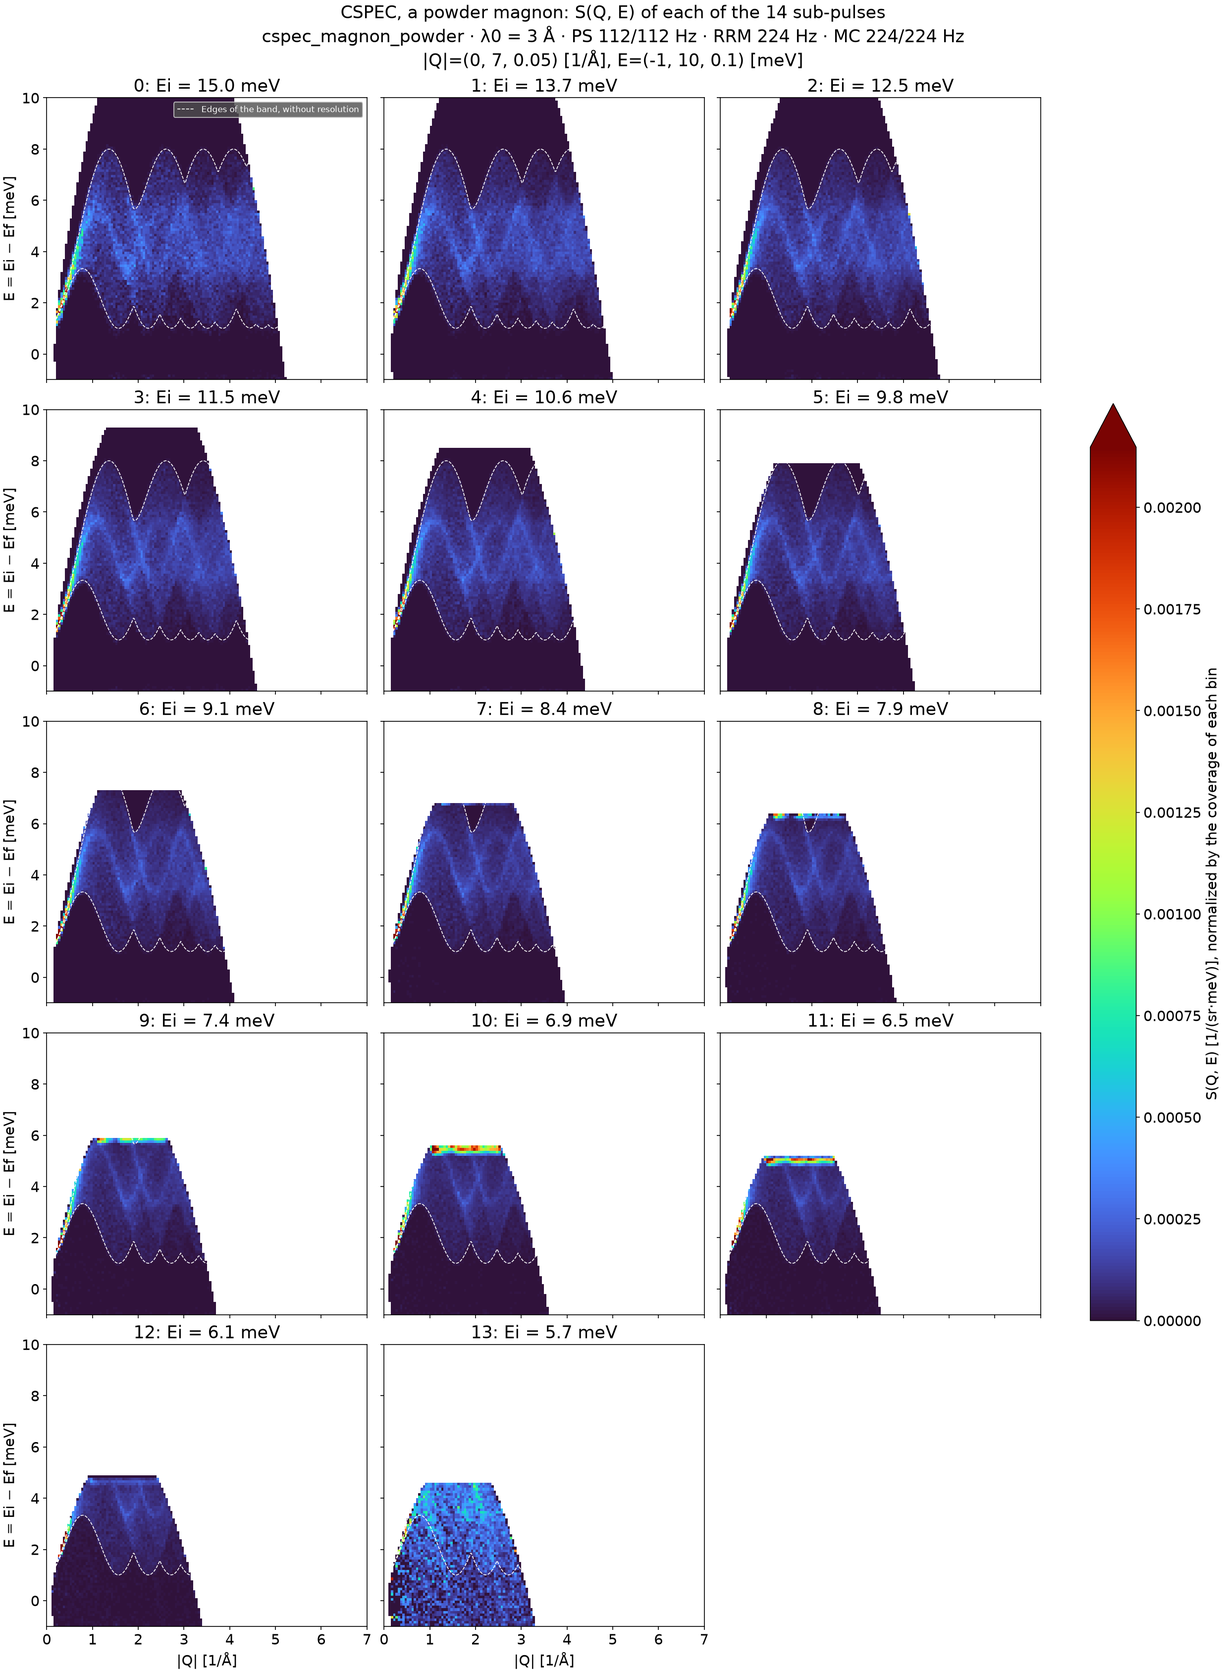
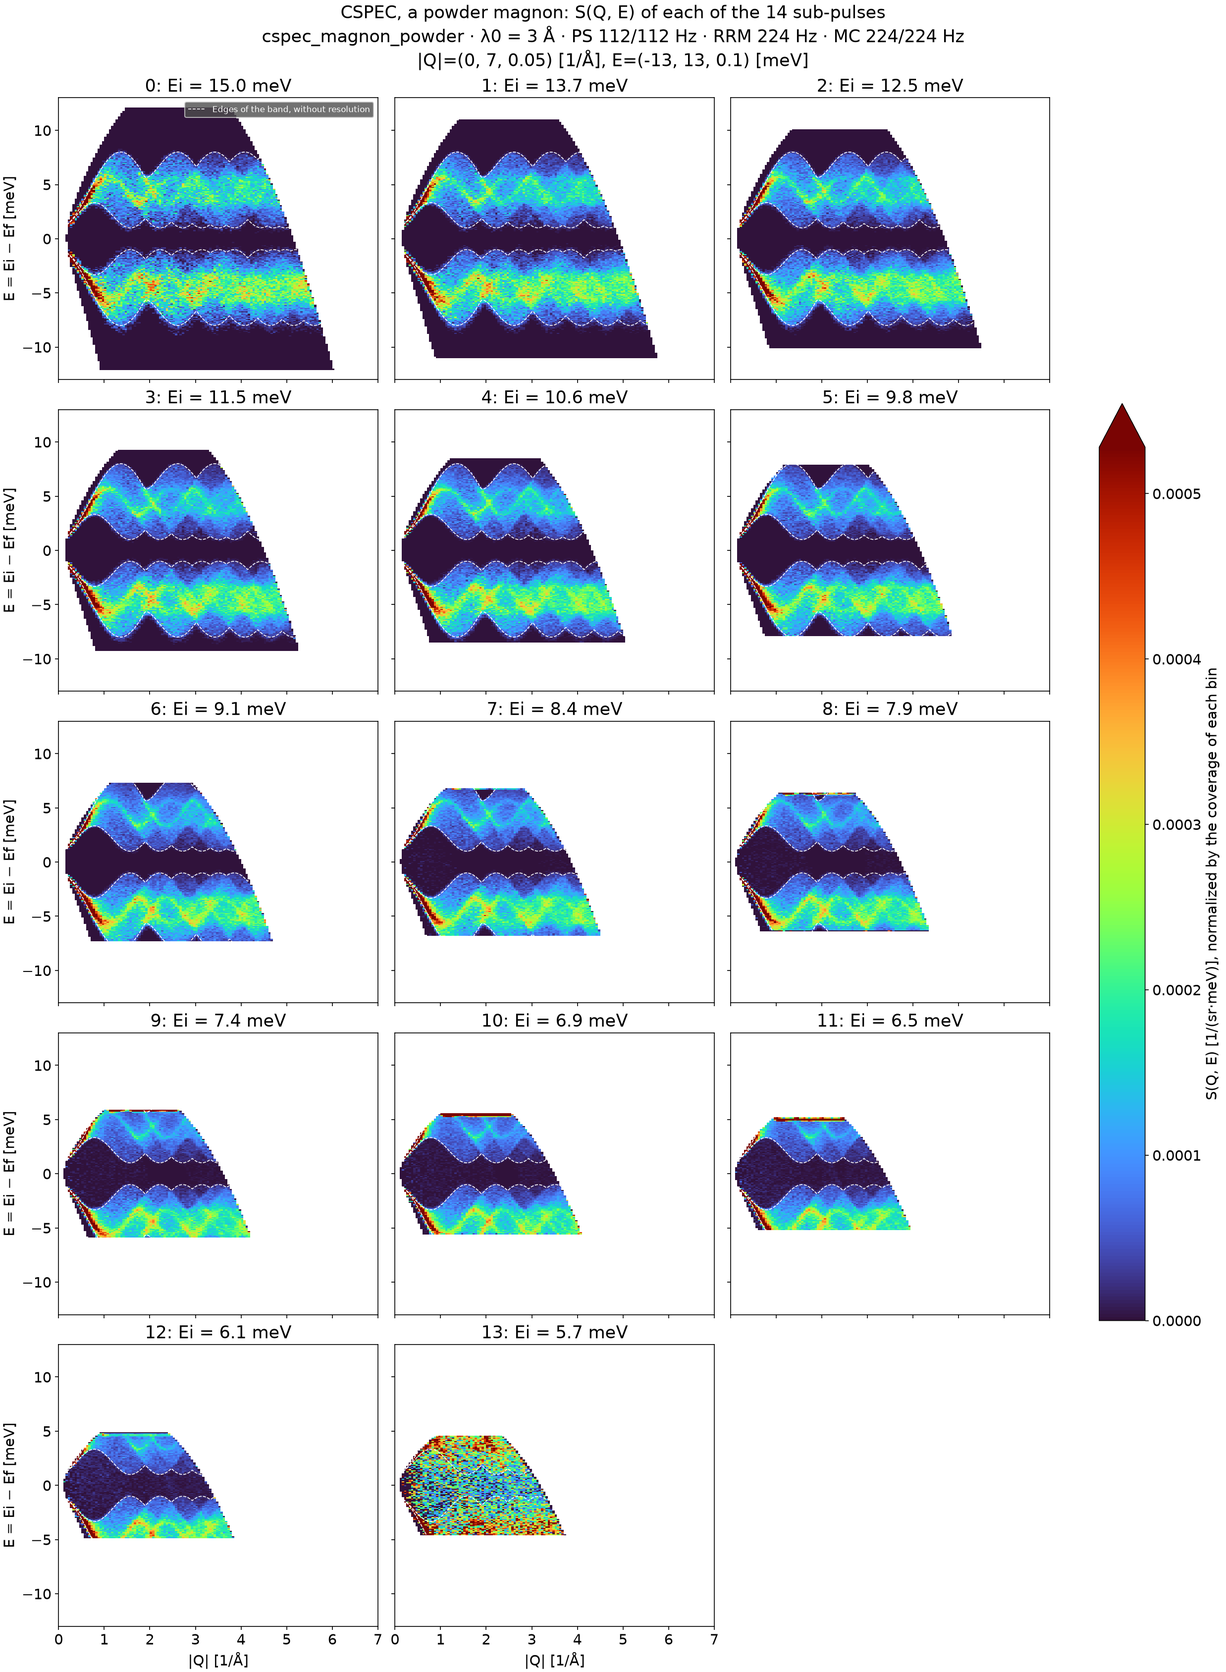
Show the powder magnon on both sides of E, with a Bose factor of 1
write_magnon_sqw writes the S(|Q|, E) table on both sides of E, S(Q, -E) = S(Q, E), each side one
magnon, instead of leaving Isotropic_Sqw to mirror a table given at positive E alone. With T=-1, no
detailed balance, the powder annihilates the magnon as often as it creates it: the same scattering
as before, now stated in the table. The second parts of T-Rex FF and CSPEC ran again from their
beams, and gave the same events.

plot_magnon_maps no longer crops the maps to the loss side: they span the whole arrival windows,
energy gain and energy loss, and the dashed edges of the band are mirrored to negative E. crop and
ENERGY_RANGE go. plot_q_e_maps and plot_magnon_maps take the percentile of the top of the color
scale; CSPEC draws to the 98th, to show its band in more of the scale. The vanadium maps and the
T-Rex figure keep the 99.9th.

The findings on both pages still describe the cropped figures, apart from their sample tables.

diff --git a/src/mcdgs/diagnostics/magnon_powder.py b/src/mcdgs/diagnostics/magnon_powder.py
@@ -5,10 +5,10 @@ The powder-magnon diagnostic of each instrument writes the S(|Q|, E) of its powd
 with :func:`.q_e_maps`, as for vanadium. Each chooses a magnon in reach of its sub-pulses. This
 module does the rest:
 
-- :func:`crop` keeps the bins of the maps within a range of E, around the band.
-- :func:`plot_magnon_maps` draws the maps of :func:`.plot_q_e_maps` with the edges of the band of
-  the model, :func:`.magnon_band`, over them: how far the intensity spreads past them is the
-  resolution of each sub-pulse.
+- :func:`plot_magnon_maps` draws the maps of :func:`.plot_q_e_maps` over the whole arrival
+  windows, energy gain and energy loss, with the edges of the band of the model,
+  :func:`.magnon_band`, over them: how far the intensity spreads past them is the resolution of
+  each sub-pulse, and whatever lies elsewhere comes from the instrument or the reduction.
 """
 
 import numpy as np
@@ -16,45 +16,31 @@ import scipp as sc
 from matplotlib.figure import Figure
 from matplotlib.lines import Line2D
 
-from mcdgs.diagnostics.elastic_resolution import plot_q_e_maps
+from mcdgs.diagnostics.elastic_resolution import MAP_PERCENTILE, plot_q_e_maps
 from mcdgs.samples.inelastic.powder import MAGNON_A, magnon_band
 
 EDGE_COLOR = "white"  # of the edges of the band of the model, over the maps
 
 
-def crop(maps: sc.DataArray, energy_range: tuple[float, float]) -> sc.DataArray:
-    """Keep the bins of E within ``energy_range``, in meV, of the maps of :func:`.q_e_maps`.
-
-    Examples
-    --------
-    >>> edges = sc.linspace("energy_transfer", -10.0, 10.0, 21, unit="meV")
-    >>> maps = sc.DataArray(
-    ...     sc.zeros(dims=["energy_transfer"], shape=[20]), coords={"energy_transfer": edges}
-    ... )
-    >>> cropped = crop(maps, (-2.0, 3.0))
-    >>> cropped.coords["energy_transfer"].values[[0, -1]].tolist()
-    [-2.0, 3.0]
-    """
-    low, high = (sc.scalar(value, unit="meV") for value in energy_range)
-    unit = maps.coords["energy_transfer"].unit
-    return maps["energy_transfer", low.to(unit=unit) : high.to(unit=unit)]
-
-
 def plot_magnon_maps(
     maps: sc.DataArray,
     title: str,
-    energy_range: tuple[float, float],
     js: float,
     gap: float,
     a: float = MAGNON_A,
+    percentile: float = MAP_PERCENTILE,
 ) -> Figure:
     """Draw the S(Q, E) of every sub-pulse, with the edges of the band of the model over it.
 
-    The maps are those of :func:`.plot_q_e_maps`, within ``energy_range``: one panel per
-    sub-pulse, from the highest Ei, on one color scale, white where the sub-pulse cannot reach.
+    The maps are those of :func:`.plot_q_e_maps`, over all their E, from the energy gain to the
+    energy loss of the arrival window of the highest Ei: one panel per sub-pulse, from the
+    highest Ei, on one color scale, white where the sub-pulse cannot reach.
+
     Over each, the lowest and the highest energy of the magnon at each |Q|, :func:`.magnon_band`,
-    are dashed lines: the band of the powder has sharp edges, and how far the intensity spreads
-    past them is the resolution of the sub-pulse.
+    are dashed lines, at positive E, where the powder creates the magnon, and mirrored at negative
+    E, where it annihilates it: the band of the powder has sharp edges, and how far the intensity
+    spreads past them is the resolution of the sub-pulse. Whatever lies outside both bands comes
+    from the instrument or the reduction.
 
     Parameters
     ----------
@@ -62,24 +48,23 @@ def plot_magnon_maps(
         The maps of :func:`.q_e_maps`.
     title:
         The title of the figure.
-    energy_range:
-        The E of the maps, in meV, as :func:`crop`.
     js, gap, a:
         The magnon of the powder, as :func:`.magnon_energies`.
+    percentile:
+        The top of the color scale, as :func:`.plot_q_e_maps`.
 
     Returns
     -------
     :
         The figure.
     """
-    maps = crop(maps, energy_range)
-    fig = plot_q_e_maps(maps, title)
+    fig = plot_q_e_maps(maps, title, percentile=percentile)
     q_edges = maps.coords["Q"].to(unit="1/Å").values
     q = np.linspace(q_edges[0], q_edges[-1], 400)
     low, high = magnon_band(q, a=a, js=js, gap=gap)
     panels = [ax for ax in fig.axes[: maps.sizes["subpulse"]] if ax.get_visible()]
     for ax in panels:
-        for edge in (low, high):
+        for edge in (low, high, -low, -high):  # on the loss side, and mirrored on the gain side
             ax.plot(q, edge, color=EDGE_COLOR, lw=0.8, ls="--")
     if panels:
         panels[0].legend(

diff --git a/src/mcdgs/samples/inelastic/powder.py b/src/mcdgs/samples/inelastic/powder.py
@@ -148,11 +148,15 @@ def write_magnon_sqw(
     At each |Q| of the table, the magnon of :func:`magnon_energies` is averaged over the
     ``directions`` of :func:`sphere_directions`: the energies they give are histogrammed and
     smoothed by a Gaussian of σ ``width``, the line of the magnon. Each row is a density in E:
-    its sum times ``e_step`` is 1, the same at every |Q|. The magnetic form factor and the
-    polarization factor are left out, so the intensity does not fall with |Q|.
+    the sum of each side times ``e_step`` is 1, one magnon, the same at every |Q|. The magnetic
+    form factor and the polarization factor are left out, so the intensity does not fall with |Q|.
 
-    The magnon is created only: E is the energy the neutron loses, from 0 to a little above the
-    top of the band, and the table holds no detailed balance (``classical`` 0 in its header).
+    E is the energy the neutron loses. The magnon is created at positive E and annihilated at
+    negative E, as often: the table is symmetric in E, from a little below the bottom of the band
+    on the gain side to a little above its top on the loss side, a Bose factor of 1, the limit of
+    a high temperature. It holds both sides itself, rather than leaving :class:`.Isotropic_Sqw` to
+    mirror one, and ``classical`` 0 in its header: with ``T=-1``, no detailed balance, the powder
+    scatters it as it is.
 
     Parameters
     ----------
@@ -178,13 +182,16 @@ def write_magnon_sqw(
     path.parent.mkdir(parents=True, exist_ok=True)
     q = np.arange(0.0, q_max + q_step / 2, q_step)
     e_max = gap + 24 * js + 6 * width
-    energy = np.arange(0.0, e_max + e_step / 2, e_step)
-    edges = np.append(energy - e_step / 2, energy[-1] + e_step / 2)
+    loss = np.arange(0.0, e_max + e_step / 2, e_step)  # E from 0 up: the magnon created
+    edges = np.append(loss - e_step / 2, loss[-1] + e_step / 2)
     unit = sphere_directions(directions)
-    table = np.empty((q.size, energy.size))
+    created = np.empty((q.size, loss.size))
     for i, length in enumerate(q):
-        table[i] = np.histogram(magnon_energies(length * unit, a, js, gap), bins=edges)[0]
-    table = gaussian_filter1d(table / (directions * e_step), width / e_step, axis=1)
+        created[i] = np.histogram(magnon_energies(length * unit, a, js, gap), bins=edges)[0]
+    created = gaussian_filter1d(created / (directions * e_step), width / e_step, axis=1)
+    # the gain side, the magnon annihilated: the loss side mirrored, a Bose factor of 1
+    energy = np.concatenate([-loss[:0:-1], loss])
+    table = np.concatenate([created[:, :0:-1], created], axis=1)
     with path.open("w") as f:
         f.write(
             "# S(|Q|, E) of the magnon of a simple-cubic ferromagnet, averaged over the "
@@ -195,7 +202,7 @@ def write_magnon_sqw(
             "# q axis values [1/Å]\n"
         )
         np.savetxt(f, q[None], fmt="%.4f")
-        f.write("# w axis values [meV], the energy the neutron loses\n")
+        f.write("# w axis values [meV], the energy the neutron loses, negative when it gains\n")
         np.savetxt(f, energy[None], fmt="%.4f")
         f.write("# sqw values [1/meV], one row per q value\n")
         np.savetxt(f, table, fmt="%.4e")

diff --git a/src/mcdgs/diagnostics/elastic_resolution.py b/src/mcdgs/diagnostics/elastic_resolution.py
@@ -433,13 +433,17 @@ def q_e_maps(
     return maps
 
 
-def plot_q_e_maps(maps: sc.DataArray, title: str, columns: int = MAP_COLUMNS) -> Figure:
+def plot_q_e_maps(
+    maps: sc.DataArray,
+    title: str,
+    columns: int = MAP_COLUMNS,
+    percentile: float = MAP_PERCENTILE,
+) -> Figure:
     """Draw the S(Q,E) map of every sub-pulse, |Q| across and E up, from the highest Ei.
 
     Every map spans the same range of |Q| and E, that of the bins of :func:`q_e_maps`, and they
-    share one linear color scale, turbo, from 0 to the ``MAP_PERCENTILE`` percentile of the bins
-    with neutrons, of all the maps. A bin the sub-pulse
-    reaches has the color of its value, the bottom of the scale if it is empty; a bin it cannot
+    share one linear color scale, turbo, from 0 to the ``percentile`` percentile of the bins with
+    neutrons, of all the maps. A bin the sub-pulse reaches has the color of its value, the bottom of the scale if it is empty; a bin it cannot
     reach, NaN in :func:`q_e_maps`, is white. So the colored area of each map is its coverage:
     its arrival window between the smallest and the largest 2θ of the pixels.
 
@@ -451,6 +455,9 @@ def plot_q_e_maps(maps: sc.DataArray, title: str, columns: int = MAP_COLUMNS) ->
         The title of the figure.
     columns:
         The number of maps in a row.
+    percentile:
+        The top of the color scale, as a percentile of the bins with neutrons. A lower one
+        saturates more bins, and shows the weaker ones in more of the scale.
 
     Returns
     -------
@@ -463,7 +470,7 @@ def plot_q_e_maps(maps: sc.DataArray, title: str, columns: int = MAP_COLUMNS) ->
     energies = maps.coords["incident_energy"].to(unit="meV").values
     order = np.argsort(-energies)  # the highest Ei first
     rows = -(-order.size // columns)
-    top = float(np.nanpercentile(maps.values[maps.values > 0], MAP_PERCENTILE))
+    top = float(np.nanpercentile(maps.values[maps.values > 0], percentile))
     cmap = plt.get_cmap("turbo").with_extremes(bad="white")
     with plt.rc_context({"font.size": FONT_SIZE}):
         fig, axes = plt.subplots(

diff --git a/src/mcdgs/diagnostics/trex/magnon_powder.py b/src/mcdgs/diagnostics/trex/magnon_powder.py
@@ -21,7 +21,8 @@ The reduction is that of the vanadium (:func:`.elastic_resolution_incoherent.red
 sub-pulses, the pixels past ``MIN_TWO_THETA`` from the beam, the neutrons of each sub-pulse
 normalized by the solid angle of their pixel and by its flux, and :func:`.q_e_maps`, S(Q, E)
 normalized by the coverage of each bin. :func:`.plot_magnon_maps` draws the 15 maps in one figure,
-within ``ENERGY_RANGE``, with the edges of the band of the model, :func:`.magnon_band`, over them.
+over their whole arrival windows, energy gain and energy loss, with the edges of the band of the
+model, :func:`.magnon_band`, over them.
 
 :func:`main` is :func:`simulate`, which runs McStas, then :func:`analyze`, which reduces and
 draws. Run it to do both::
@@ -50,7 +51,7 @@ from mcdgs.instruments.trex.model import DEFAULT_PARAMS, Params, TRex
 from mcdgs.mcstas import Simulation, Workspace
 from mcdgs.reduction.inelastic import normalized_events
 from mcdgs.samples import magnon_powder, write_magnon_sqw
-from mcdgs.samples.inelastic.powder import MAGNON_GAP, MAGNON_JS, MAGNON_TOP
+from mcdgs.samples.inelastic.powder import MAGNON_GAP, MAGNON_JS
 
 NAME = "trex_magnon_powder"
 SQW_NAME = "magnon_powder.sqw"  # in the builds folder of the workspace
@@ -60,8 +61,6 @@ SAMPLE_SPLIT = 4  # each neutron of the beam goes through the powder this many t
 NCOUNT = 5e9  # McStas rays of the first part, from the masked source
 ENERGY_STEP = 0.25  # meV, the bin width in E of the maps
 Q_STEP = 0.1  # 1/Å, the bin width in |Q| of the maps
-# the E of the maps: the magnon is created only, so from a little below 0 to past the band
-ENERGY_RANGE = (-2.0, MAGNON_TOP + 3.0)  # meV
 
 
 def sqw_path(workspace: Workspace | None = None) -> Path:
@@ -262,7 +261,6 @@ def analyze(out: Path | None = None, modes: tuple[Mode, ...] = MODES) -> list[Pa
             maps,
             f"T-Rex, a powder magnon: S(Q, E) of each of the {pulses.sizes['subpulse']} "
             f"sub-pulses\n{conditions}",
-            ENERGY_RANGE,
             js=MAGNON_JS,
             gap=MAGNON_GAP,
         )

diff --git a/src/mcdgs/diagnostics/cspec/magnon_powder.py b/src/mcdgs/diagnostics/cspec/magnon_powder.py
@@ -18,8 +18,10 @@ the folders of :func:`run_names`.
 The reduction is that of the vanadium (:func:`.elastic_resolution_incoherent.reduce_runs`): the
 sub-pulses at ``mc_monitor``, every pixel of the panels, the neutrons of each sub-pulse normalized
 by the solid angle of their pixel and by its flux, and :func:`.q_e_maps`, S(Q, E) normalized by
-the coverage of each bin. :func:`.plot_magnon_maps` draws the 14 maps in one figure, within
-``ENERGY_RANGE``, with the edges of the band of the model, :func:`.magnon_band`, over them.
+the coverage of each bin. :func:`.plot_magnon_maps` draws the 14 maps in one figure, over
+their whole arrival windows, energy gain and energy loss, on a color scale up to the
+``MAP_PERCENTILE`` percentile of the bins, with the edges of the band of the model,
+:func:`.magnon_band`, over them.
 
 :func:`main` is :func:`simulate`, which runs McStas, then :func:`analyze`, which reduces and
 draws. Run it to do both::
@@ -62,8 +64,9 @@ SAMPLE_SPLIT = 4  # each neutron of the beam goes through the powder this many t
 NCOUNT = 5e9  # McStas rays of the first part, from the masked source
 ENERGY_STEP = 0.1  # meV, the bin width in E of the maps
 Q_STEP = 0.05  # 1/Å, the bin width in |Q| of the maps
-# the E of the maps: the magnon is created only, so from a little below 0 to past the band
-ENERGY_RANGE = (-1.0, MAGNON_TOP + 2.0)  # meV
+# the top of the color scale, as a percentile of the bins with neutrons: lower than for vanadium,
+# so that the band shows in the upper colors, not only the hottest bins of the last sub-pulse
+MAP_PERCENTILE = 98.0
 
 
 def sqw_path(workspace: Workspace | None = None) -> Path:
@@ -276,9 +279,9 @@ def analyze(
         maps,
         f"CSPEC, a powder magnon: S(Q, E) of each of the {pulses.sizes['subpulse']} "
         f"sub-pulses\n{define_instrument().running_conditions()}",
-        ENERGY_RANGE,
         js=MAGNON_JS,
         gap=MAGNON_GAP,
+        percentile=MAP_PERCENTILE,
     )
     path = cli.save_figure(fig, cli.output_folder(out, NAME) / f"{NAME}_sqe.png")
     plt.close(fig)

diff --git a/tests/diagnostics/test_magnon_powder.py b/tests/diagnostics/test_magnon_powder.py
@@ -1,22 +1,7 @@
 import numpy as np
-import pytest
 import scipp as sc
 
 from mcdgs.diagnostics import magnon_powder as magnon
-
-
-def test_the_maps_are_cropped_to_the_band_in_energy():
-    edges = sc.linspace("energy_transfer", -40.0, 40.0, 801, unit="meV")
-    q = sc.linspace("Q", 0.0, 5.0, 11, unit="1/Å")
-    maps = sc.DataArray(
-        sc.ones(dims=["subpulse", "energy_transfer", "Q"], shape=[2, 800, 10]),
-        coords={"energy_transfer": edges, "Q": q},
-    )
-    cropped = magnon.crop(maps, (-2.0, 23.0))
-    energy = cropped.coords["energy_transfer"].values
-    assert energy[0] == pytest.approx(-2.0)
-    assert energy[-1] == pytest.approx(23.0)
-    assert cropped.sizes["Q"] == 10
 
 
 def test_the_figure_has_a_panel_per_sub_pulse_with_the_band_over_it():
@@ -34,7 +19,7 @@ def test_the_figure_has_a_panel_per_sub_pulse_with_the_band_over_it():
             "incident_energy": sc.linspace("subpulse", 47.0, 11.0, n, unit="meV"),
         },
     )
-    fig = magnon.plot_magnon_maps(maps, "test", (-2.0, 23.0), js=15 / 24, gap=5.0)
+    fig = magnon.plot_magnon_maps(maps, "test", js=15 / 24, gap=5.0)
     panels = [ax for ax in fig.axes if ax.get_title().split(":")[0].isdigit()]
     assert len(panels) == n
-    assert all(len(ax.lines) == 2 for ax in panels)  # the two edges of the band
+    assert all(len(ax.lines) == 4 for ax in panels)  # the two edges of the band, on both sides

diff --git a/tests/diagnostics/test_cspec_magnon_powder.py b/tests/diagnostics/test_cspec_magnon_powder.py
@@ -39,13 +39,14 @@ def test_the_magnon_runs_from_its_gap_to_its_top():
     assert high[1] == pytest.approx(8.0, abs=0.05)  # the corner of the zone, |Q| = √3 π / a
 
 
-def test_the_table_is_a_density_in_energy_up_to_past_the_top(tmp_path):
+def test_the_table_is_a_density_in_energy_on_both_sides_past_the_top(tmp_path):
     path = diagnostic.write_sqw(tmp_path / "m.sqw")
     lines = [line for line in path.read_text().splitlines() if not line.startswith("#")]
     q, energy = (np.array(lines[i].split(), dtype=float) for i in (0, 1))
     table = np.loadtxt(lines[2:])
     assert q[-1] == pytest.approx(diagnostic.SQW_Q_MAX)
     assert energy[1] - energy[0] == pytest.approx(diagnostic.SQW_E_STEP)
-    assert energy[-1] > diagnostic.MAGNON_TOP
+    assert energy[-1] > diagnostic.MAGNON_TOP and energy[0] == pytest.approx(-energy[-1])
     assert table.shape == (q.size, energy.size)
-    assert table.sum(axis=1) * diagnostic.SQW_E_STEP == pytest.approx(1, abs=2e-3)
+    loss = table[:, energy >= 0]  # one magnon on the loss side, and the same on the gain side
+    assert loss.sum(axis=1) * diagnostic.SQW_E_STEP == pytest.approx(1, abs=2e-3)

diff --git a/tests/samples/test_samples.py b/tests/samples/test_samples.py
@@ -195,8 +195,10 @@ def test_the_magnon_table_is_a_density_in_energy_at_each_q(tmp_path):
     (q,), (energy,), table = blocks
     table = np.array(table)
     assert q.tolist() == [0.0, 0.5, 1.0, 1.5, 2.0]
-    assert energy[0] == 0 and np.allclose(np.diff(energy), 0.02, atol=1e-4)  # evenly spaced
+    assert np.allclose(np.diff(energy), 0.02, atol=1e-4)  # evenly spaced
     assert energy[-1] > 20.0  # past the top of the band
+    assert energy[0] == pytest.approx(-energy[-1]) and 0.0 in energy  # as far below 0 as above
+    assert np.array_equal(table, table[:, ::-1])  # created and annihilated alike: no Bose factor
     assert table.shape == (q.size, energy.size)
-    assert table.sum(axis=1) * 0.02 == pytest.approx(1, abs=2e-3)  # one magnon at each |Q|
-    assert energy[np.argmax(table[0])] == pytest.approx(5.0, abs=0.02)  # the gap at Q = 0
+    assert table[:, energy >= 0].sum(axis=1) * 0.02 == pytest.approx(1, abs=2e-3)  # one magnon
+    assert abs(energy[np.argmax(table[0])]) == pytest.approx(5.0, abs=0.02)  # the gap at Q = 0

diff --git a/docs/instruments/cspec/magnon-powder.md b/docs/instruments/cspec/magnon-powder.md
@@ -39,9 +39,9 @@ lowest and a highest energy, `magnon_band`, with sharp edges.
 | | |
 | - | - |
 | Sample | a solid cylinder 20 mm across and 10 mm high, the size of the vanadium, `Isotropic_Sqw` |
-| S(\|Q\|, E) | 0 to 6 Å⁻¹ in steps of 0.02 Å⁻¹, 0 to 8.06 meV in steps of 0.005 meV, each row normalized to one magnon |
+| S(\|Q\|, E) | 0 to 6 Å⁻¹ in steps of 0.02 Å⁻¹, −8.06 to 8.06 meV in steps of 0.005 meV, symmetric in E, each side of each row normalized to one magnon |
 | Cross-sections | 5 b coherent per 64 Å³ cell, only the scale of the intensity; no absorption, no incoherent scattering |
-| Taken as it is | `T=-1`: no detailed balance, the magnon is only created; `classical=0`, `norm=1` |
+| Taken as it is | `T=-1`: no detailed balance; `classical=0`, `norm=1`; the table holds both sides, so the magnon is annihilated as often as it is created, a Bose factor of 1 |
 | Scattering | single scattering only (`order=1`), within `d_phi` = 55.1° of the horizontal plane, the height of the window of the vanadium, 90% of the neutrons made to scatter (`p_interact=0.9`), each neutron sent through it 4 times (`SPLIT 4`) |
 | Detector | the twelve detector panels, as for vanadium |
 

diff --git a/docs/instruments/trex/magnon-powder.md b/docs/instruments/trex/magnon-powder.md
@@ -29,9 +29,9 @@ edges.
 | | |
 | - | - |
 | Sample | a solid cylinder 20 mm across and 10 mm high, the size of the vanadium, `Isotropic_Sqw` |
-| S(\|Q\|, E) | 0 to 10 Å⁻¹ in steps of 0.02 Å⁻¹, 0 to 20.2 meV in steps of 0.02 meV, each row normalized to one magnon |
+| S(\|Q\|, E) | 0 to 10 Å⁻¹ in steps of 0.02 Å⁻¹, −20.2 to 20.2 meV in steps of 0.02 meV, symmetric in E, each side of each row normalized to one magnon |
 | Cross-sections | 5 b coherent per 64 Å³ cell, only the scale of the intensity; no absorption, no incoherent scattering |
-| Taken as it is | `T=-1`: no detailed balance, the magnon is only created; `classical=0`, `norm=1` |
+| Taken as it is | `T=-1`: no detailed balance; `classical=0`, `norm=1`; the table holds both sides, so the magnon is annihilated as often as it is created, a Bose factor of 1 |
 | Scattering | single scattering only (`order=1`), within `d_phi` = 52° of the horizontal plane, 90% of the neutrons made to scatter (`p_interact=0.9`), each neutron sent through it 4 times (`SPLIT 4`) |
 | Detector | the banana detector, as for vanadium |
 
